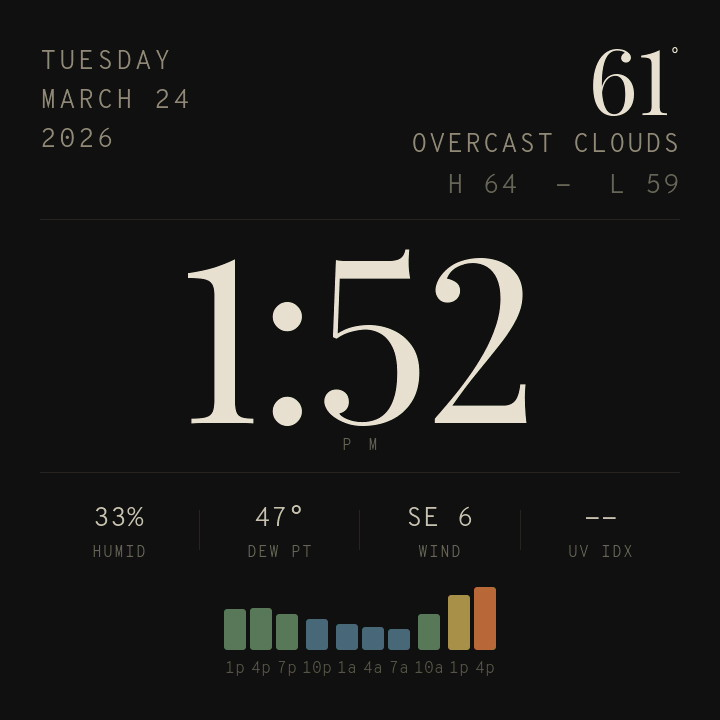
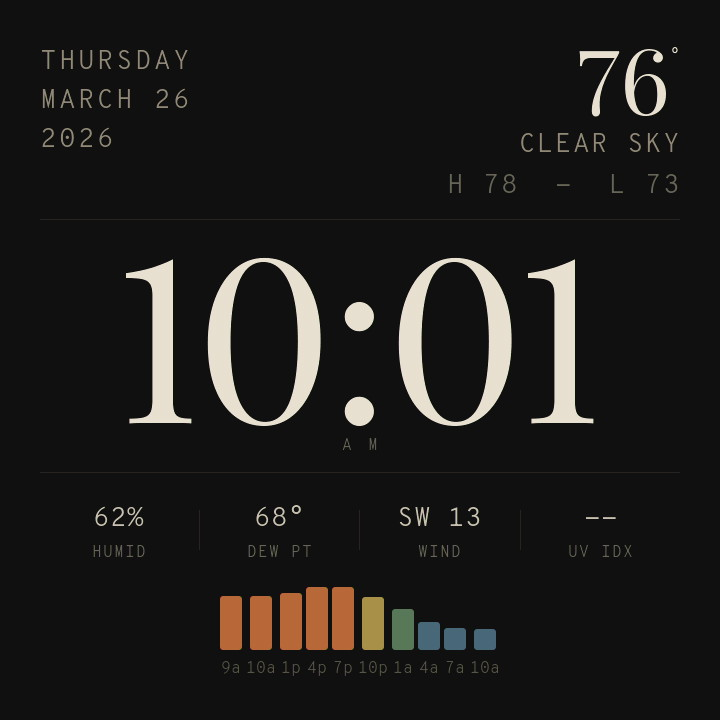
feat: Reduce heap usage when display is not showing a pirticular feature like Spotify, NINA, clock or AllSky. All inactive feature fully cease their data polling to conserve memory for the active feature.

diff --git a/main/tasks.c b/main/tasks.c
@@ -141,9 +141,14 @@ static bool hfr_graph_seeded = false;   /* True after initial API fetch for curr
 /* Per-instance poll contexts (shared between UI coordinator and poll tasks) */
 static instance_poll_ctx_t poll_contexts[MAX_NINA_INSTANCES];
 
-/* Spotify task state */
+/* Feature task state and page-active flags.
+ * Each flag is set by data_update_task and read by the corresponding poll task.
+ * When false, the poll task suspends and frees resources. */
 TaskHandle_t spotify_task_handle = NULL;
 _Atomic bool spotify_page_active = false;
+_Atomic bool allsky_page_active  = false;
+_Atomic bool clock_page_active   = false;
+_Atomic bool nina_pages_active   = false;
 
 /* AllSky polling state */
 static allsky_data_t allsky_data;
@@ -227,6 +232,12 @@ void input_task(void *arg) {
     gpio_isr_handler_add(BOOT_BUTTON_GPIO, boot_button_isr_handler, (void *)xTaskGetCurrentTaskHandle());
 
     while (1) {
+        /* Record stack HWM unconditionally — measurement inside the button
+         * handler never executes if no button is pressed. */
+        if (g_perf.enabled) {
+            g_perf.input_task_stack_hwm = uxTaskGetStackHighWaterMark(NULL) * sizeof(StackType_t);
+        }
+
         /* Block until button press ISR fires */
         ulTaskNotifyTake(pdTRUE, portMAX_DELAY);
 
@@ -310,11 +321,6 @@ void input_task(void *arg) {
 
             page_changed = true;
         }
-
-        /* Record stack high water mark if perf monitoring is enabled */
-        if (g_perf.enabled) {
-            g_perf.input_task_stack_hwm = uxTaskGetStackHighWaterMark(NULL) * sizeof(StackType_t);
-        }
     }
 }
 
@@ -349,8 +355,8 @@ void instance_poll_task(void *arg) {
     }
 
     while (!ctx->shutdown) {
-        // Suspend during OTA or while Spotify page is active
-        while ((ota_in_progress || spotify_page_active) && !ctx->shutdown) {
+        // Suspend during OTA
+        while (ota_in_progress && !ctx->shutdown) {
             vTaskDelay(pdMS_TO_TICKS(500));
         }
         if (ctx->shutdown) break;
@@ -398,6 +404,17 @@ void instance_poll_task(void *arg) {
             }
             ctx->last_heartbeat_ms = now_ms;
             ESP_LOGD(TAG, "Poll[%d] (idle): connected=%d", idx + 1, ctx->client->connected);
+        } else if (!nina_pages_active) {
+            /* Non-NINA page active — heartbeat-only for liveness detection.
+             * WebSockets are already torn down by data_update_task.
+             * Full/background polling is skipped to free resources. */
+            if (now_ms - ctx->last_heartbeat_ms >= (int64_t)app_config_get()->idle_poll_interval_s * 1000) {
+                nina_client_poll_heartbeat(url, ctx->client, idx);
+                if (nina_connection_is_connected(idx))
+                    ctx->client->last_successful_poll_ms = now_ms;
+                ctx->last_heartbeat_ms = now_ms;
+                ESP_LOGD(TAG, "Poll[%d] (page-idle): connected=%d", idx + 1, ctx->client->connected);
+            }
         } else if (ctx->is_active) {
             nina_client_poll(url, ctx->client, ctx->poll_state, idx);
             if (nina_connection_is_connected(idx))
@@ -436,7 +453,7 @@ void instance_poll_task(void *arg) {
 
         // WebSocket: skip reconnect while screen sleeping (saves network resources);
         // reconnect will happen naturally when screen wakes and poll resumes.
-        if (!screen_asleep) {
+        if (!screen_asleep && nina_pages_active) {
             // If WebSocket was never started (boot probe missed) but instance is
             // now connected, start it. check_reconnect only handles post-disconnect.
             if (!nina_websocket_is_running(idx) && nina_connection_is_connected(idx)) {
@@ -447,7 +464,7 @@ void instance_poll_task(void *arg) {
 
         // Sleep: active = update_rate_s, background = heartbeat, screen_asleep = idle_poll
         uint32_t cycle_ms;
-        if (screen_asleep) {
+        if (screen_asleep || !nina_pages_active) {
             cycle_ms = (uint32_t)app_config_get()->idle_poll_interval_s * 1000;
             if (cycle_ms < 5000) cycle_ms = 5000;
         } else if (ctx->is_active) {
@@ -487,9 +504,9 @@ void allsky_poll_task(void *arg) {
     xEventGroupWaitBits(s_wifi_event_group, WIFI_CONNECTED_BIT, pdFALSE, pdFALSE, portMAX_DELAY);
 
     while (1) {
-        /* Suspend during OTA or while Spotify page is active */
-        while (ota_in_progress || spotify_page_active) {
-            vTaskDelay(pdMS_TO_TICKS(1000));
+        /* Suspend during OTA or when AllSky page is not visible */
+        while (ota_in_progress || !allsky_page_active) {
+            ulTaskNotifyTake(pdTRUE, pdMS_TO_TICKS(1000));
         }
 
         /* Read fields directly from config pointer — avoids copying the full
@@ -525,6 +542,13 @@ void spotify_poll_task(void *arg)
     #define ART_MAX_RETRIES 3      /* give up on art after this many failures */
 
     while (1) {
+        /* Record stack HWM unconditionally — the measurement at the end of
+         * the poll cycle is unreachable when the task is suspended by the
+         * page-gate or when Spotify is not configured. */
+        if (g_perf.enabled) {
+            g_perf.spotify_task_stack_hwm = uxTaskGetStackHighWaterMark(NULL) * sizeof(StackType_t);
+        }
+
         /* Suspend during OTA updates */
         while (ota_in_progress) {
             vTaskDelay(pdMS_TO_TICKS(1000));
@@ -548,7 +572,7 @@ void spotify_poll_task(void *arg)
              * page becomes active again (the art buffer was freed). */
             prev_track_id[0] = '\0';
             art_retries = 0;
-            vTaskDelay(pdMS_TO_TICKS(2000));
+            ulTaskNotifyTake(pdTRUE, pdMS_TO_TICKS(2000));
             continue;
         }
 
@@ -775,9 +799,6 @@ void spotify_poll_task(void *arg)
             interval = backoff;
         }
         perf_timer_stop(&g_perf.spotify_poll_cycle);
-        if (g_perf.enabled) {
-            g_perf.spotify_task_stack_hwm = uxTaskGetStackHighWaterMark(NULL) * sizeof(StackType_t);
-        }
         vTaskDelay(pdMS_TO_TICKS(interval));
     }
 }
@@ -1339,6 +1360,7 @@ main_loop:
         bool on_sysinfo = nina_dashboard_is_sysinfo_page();
         bool on_settings = nina_dashboard_is_settings_page();
         bool on_summary = nina_dashboard_is_summary_page();
+        bool on_clock = nina_dashboard_is_clock_page();
 
         /*
          * Page index convention (see PAGE_IDX_* / NINA_PAGE_OFFSET / EXTRA_PAGES):
@@ -1362,13 +1384,17 @@ main_loop:
             active_nina_idx = nina_dashboard_page_to_instance(active_page_idx);
         }
 
-        /* Update Spotify page activity flag for poll task + cleanup on transitions.
-         * Free inactive context's TLS sessions and large buffers to prevent
-         * internal DMA heap exhaustion (esp-aes OOM during TLS handshake). */
+        /* ── Page-gate flags and resource lifecycle ──
+         * Each feature's poll task checks its page-active flag and suspends when
+         * inactive.  WebSocket TLS is torn down whenever leaving NINA/Summary pages
+         * to free internal DMA heap for SDIO WiFi transport buffers. */
         {
-            static bool prev_on_spotify = false;
-            if (on_spotify && !prev_on_spotify) {
-                /* Entering Spotify — free NINA resources */
+            bool now_nina_active = (on_summary || active_nina_idx >= 0);
+
+            /* NINA WebSocket lifecycle — tear down when leaving NINA pages,
+             * poll tasks will reconnect naturally when nina_pages_active goes true */
+            static bool prev_nina_active = true;  /* Assume NINA active on boot */
+            if (!now_nina_active && prev_nina_active) {
                 nina_websocket_stop_all();
                 /* Dismiss thumbnail overlay if open (frees original + scaled buffers) */
                 if (bsp_display_lock(LVGL_LOCK_TIMEOUT_MS)) {
@@ -1376,21 +1402,42 @@ main_loop:
                         nina_dashboard_hide_thumbnail();
                     bsp_display_unlock();
                 }
-                ESP_LOGI(TAG, "Entering Spotify: freed NINA WebSocket TLS sessions");
+                ESP_LOGI(TAG, "Left NINA pages: freed WebSocket TLS sessions");
+            } else if (now_nina_active && !prev_nina_active) {
+                ESP_LOGI(TAG, "Entered NINA pages: poll tasks will reconnect");
+            }
+            prev_nina_active = now_nina_active;
+            nina_pages_active = now_nina_active;
+
+            /* Spotify lifecycle — wake on entry, free art on leave */
+            static bool prev_on_spotify = false;
+            if (on_spotify && !prev_on_spotify && spotify_task_handle) {
+                xTaskNotifyGive(spotify_task_handle);
             } else if (!on_spotify && prev_on_spotify) {
-                /* Leaving Spotify — free art buffer.  Don't destroy the
-                 * Spotify HTTP client here: the spotify_poll_task may be
-                 * mid-request on Core 0.  It will see spotify_page_active
-                 * go false and clean up its own connection safely. */
                 if (bsp_display_lock(LVGL_LOCK_TIMEOUT_MS)) {
                     nina_spotify_free_art();
                     bsp_display_unlock();
                 }
-                ESP_LOGI(TAG, "Leaving Spotify: freed album art buffer");
+                ESP_LOGI(TAG, "Left Spotify: freed album art buffer");
             }
             prev_on_spotify = on_spotify;
+            spotify_page_active = on_spotify;
+
+            /* AllSky and Clock flags — wake tasks immediately on page entry */
+            static bool prev_on_allsky = false;
+            if (on_allsky && !prev_on_allsky && allsky_task_handle) {
+                xTaskNotifyGive(allsky_task_handle);
+            }
+            prev_on_allsky = on_allsky;
+            allsky_page_active = on_allsky;
+
+            static bool prev_on_clock = false;
+            if (on_clock && !prev_on_clock) {
+                weather_client_force_refresh();  /* Wakes weather task via xTaskNotifyGive */
+            }
+            prev_on_clock = on_clock;
+            clock_page_active = on_clock;
         }
-        spotify_page_active = on_spotify;
 
         // Re-read instance count from config so API URL changes take effect live
         // In demo mode, keep instance_count at 3 (set during task init)
@@ -1549,7 +1596,6 @@ main_loop:
 
         /* If auto-rotate is active and we're on a NINA instance page but no instances
          * are connected, fall back to the summary page automatically. */
-        bool on_clock = nina_dashboard_is_clock_page();
         if (app_config_get()->auto_rotate_enabled && !on_summary && !on_sysinfo && !on_settings && !on_allsky && !on_spotify && !on_clock) {
             bool any_connected = false;
             for (int i = 0; i < instance_count; i++) {

diff --git a/main/tasks.h b/main/tasks.h
@@ -60,9 +60,12 @@ void instance_poll_task(void *arg);
 /** FreeRTOS task: AllSky API poller — polls at allsky_update_interval_s rate. */
 void allsky_poll_task(void *arg);
 
-/** Spotify poll task handle and page-active flag — defined in tasks.c. */
+/** Feature poll task handles and page-active flags — defined in tasks.c. */
 extern TaskHandle_t spotify_task_handle;
 extern _Atomic bool spotify_page_active;
+extern _Atomic bool allsky_page_active;
+extern _Atomic bool clock_page_active;
+extern _Atomic bool nina_pages_active;
 
 /** Weather poll task — spawned by weather_client_start() when location is configured. */
 /* (Task handle is internal to weather_client.c; no extern needed here.) */

diff --git a/main/weather_client.c b/main/weather_client.c
@@ -586,9 +586,9 @@ static void weather_poll_task(void *arg) {
     ESP_LOGI(TAG, "WiFi connected, starting weather polling");
 
     while (1) {
-        /* Suspend during OTA updates */
-        while (ota_in_progress) {
-            vTaskDelay(pdMS_TO_TICKS(1000));
+        /* Suspend during OTA updates or when Clock page is not visible */
+        while (ota_in_progress || !clock_page_active) {
+            ulTaskNotifyTake(pdTRUE, pdMS_TO_TICKS(1000));
         }
 
         app_config_t cfg_snap = app_config_get_snapshot();

diff --git a/README.md b/README.md
@@ -118,7 +118,7 @@ A touchscreen dashboard for [N.I.N.A. astrophotography software](https://nightti
     <td align="center"><img src="images/clock-face.jpg" alt="Clock Face with Weather" width="480"></td>
   </tr>
   <tr>
-    <td align="center"><em> Clockface with weather data, hourly forecast bars</em></td>
+    <td align="center"><em> Clockface with weather data, forecast bars</em></td>
   </tr>
 </table>
 
